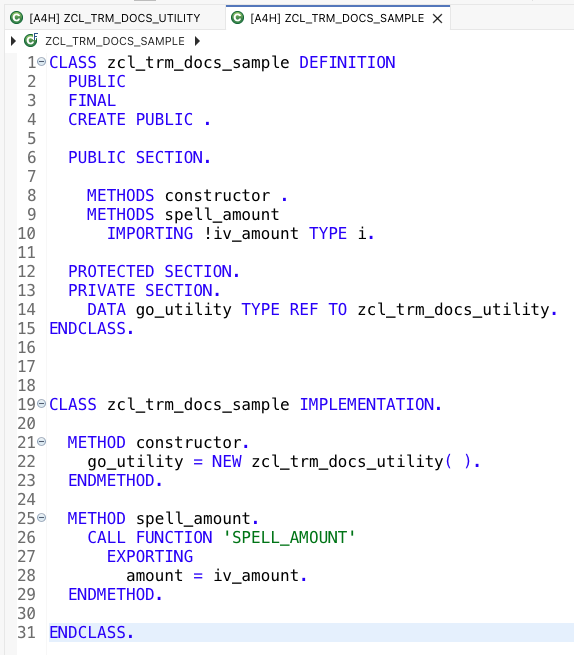
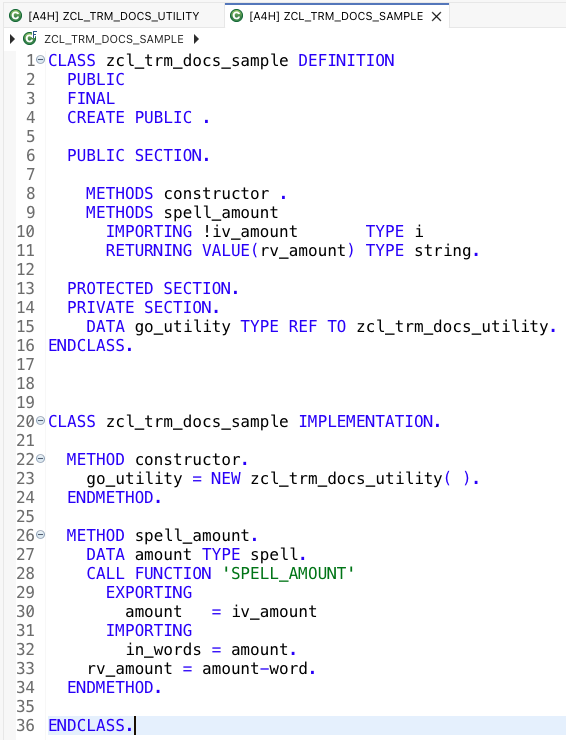
package with dependencies docs

Changed region(s): [[0.0, 0.0, 1.0, 1.0], [0.3905, 0.0, 0.7809, 0.0305], [0.811, 0.7023, 0.841, 0.7328]]

diff --git a/examples/2_package_with_dependencies.md b/examples/2_package_with_dependencies.md
@@ -1,108 +1,168 @@
 # Package with dependencies
 
-In the last post, we published and installed a simple package.
-If you remember, we have an empty method without implementation, so now we're not only implementing it but also create a dependency with another TRM package.
+In the last post, we published and installed a simple package.  
+If you remember, we had an empty method without implementation. Now we’re not only going to implement it, but also create a dependency with another TRM package.
 
 ## Coding
 
-I'll now create a new SAP package and, inside, create an utility class.
+I’ll start by creating a new SAP package and, inside it, a utility class.
 
 <div style="display:flex; gap:12px; flex-wrap:wrap">
   <img src="/_media/2_1_package_with_dependencies.png" alt="Creating a package" style="flex:1 1 300px; max-width:100%; height:auto">
   <img src="/_media/2_2_package_with_dependencies.png" alt="Creating a class" style="flex:1 1 300px; max-width:100%; height:auto">
 </div>
 
-Just like last time, let's check what's currently in my workspace:
+Just like last time, let’s check what’s currently in my workspace:
 
 <div style="display:flex; justify-content:center;">
   <img src="/_media/2_3_package_with_dependencies.png" alt="Current workspace viewed in Eclipse" style="max-width:100%; height:auto; border-radius:8px;">
 </div>
 
-And here's the utility class implemented:
+And here’s the implemented utility class:
 
 <div style="display:flex; justify-content:center;">
-  <img src="/_media/2_4_package_with_dependencies.png" alt="Current workspace viewed in Eclipse" style="max-width:100%; height:auto; border-radius:8px;">
+  <img src="/_media/2_4_package_with_dependencies.png" alt="Utility class implemented" style="max-width:100%; height:auto; border-radius:8px;">
 </div>
 
-I'll now go back to the `ZCL_TRM_DOCS_SAMPLE` class (which is in SAP package `ZTRM_DOCS_SAMPLE`, TRM package `@trmsamples/doc-demo`) and make use of that utility class
+I’ll now go back to the `ZCL_TRM_DOCS_SAMPLE` class (in SAP package `ZTRM_DOCS_SAMPLE`, TRM package `@trmsamples/doc-demo`) and make use of that utility class.
 
 <div style="display:flex; justify-content:center;">
-  <img src="/_media/2_5_package_with_dependencies.png" alt="Utility class" style="max-width:100%; height:auto; border-radius:8px;">
+  <img src="/_media/2_5_package_with_dependencies.png" alt="Utility class usage" style="max-width:100%; height:auto; border-radius:8px;">
 </div>
 
-> Even a simple use of another class (in this case creating an instance) is considered a dependency with another object
+> Even a simple use of another class (for example, creating an instance) is considered a dependency on that object.
 
-## Publish with dependency
+## Publish with a dependency
 
-I'll now try to publish a new release of package `@trmsamples/doc-demo`, as an change to class `ZCL_TRM_DOCS_SAMPLE` was performed.
+I’ll now try to publish a new release of package `@trmsamples/doc-demo`, since we changed the class `ZCL_TRM_DOCS_SAMPLE`.
 
 <div style="display:flex; justify-content:center;">
   <img src="/_media/2_6_package_with_dependencies.png" alt="Failed publish" style="max-width:100%; height:auto; border-radius:8px;">
 </div>
 
-...problems! As you can see I got an error message: clearly I messed up!
+…problems! As you can see, I got an error message: clearly I messed up!
 
-Like explained earlier, even a simple reference to another class is a dependency with it, and if `ZCL_TRM_DOCS_UTILITY` was within SAP package `ZTRM_DOCS_SAMPLE` I wouldn't have any problem, but as the CLI states, it's in package `ZTRM_DOCS_UTILITY`.
+As explained earlier, even a simple reference to another class creates a dependency.  
+If `ZCL_TRM_DOCS_UTILITY` were in the SAP package `ZTRM_DOCS_SAMPLE`, there would be no issue. But as the CLI says, it’s in package `ZTRM_DOCS_UTILITY`.
 
-Imagine what would happen if I were to bypass that error: version `1.0.1` of `@trmsamples/doc-demo` would be released and next end user to install it would have a syntax error in class `ZCL_TRM_DOCS_SAMPLE` because `ZCL_TRM_DOCS_UTILITY` (and its package `ZTRM_DOCS_UTILITY`) doesn't exist.
+Imagine what would happen if I ignored that error: version `1.0.1` of `@trmsamples/doc-demo` would still be released, but the next user who installs it would get a syntax error in `ZCL_TRM_DOCS_SAMPLE`, because `ZCL_TRM_DOCS_UTILITY` (and its package `ZTRM_DOCS_UTILITY`) doesn’t exist in their system.
 
-To solve this, we first have to publish `ZTRM_DOCS_UTILITY` (as `@trmsamples/doc-utility`) so that it becomes a TRM package, then retry the publish of `@trmsamples/doc-demo`.
+To fix this, we first need to publish `ZTRM_DOCS_UTILITY` (as `@trmsamples/doc-utility`) so that it becomes a TRM package. After that, we can try publishing `@trmsamples/doc-demo` again.
 
 <div style="display:flex; justify-content:center;">
   <img src="/_media/2_7_package_with_dependencies.png" alt="Utility publish" style="max-width:100%; height:auto; border-radius:8px;">
 </div>
 
-With `@trmsamples/doc-utility` published, let's now retry the publish of `@trmsamples/doc-demo`.
+With `@trmsamples/doc-utility` published, let’s retry publishing `@trmsamples/doc-demo`.
 
 <div style="display:flex; justify-content:center;">
   <img src="/_media/2_8_package_with_dependencies.png" alt="Successful publish" style="max-width:100%; height:auto; border-radius:8px;">
 </div>
 
-There we go! The new release is published. Few things to notice:
-- TRM automatically proposed version 1.0.1 -> I didn't specify a version during publish, so patch of the latest version at the time (1.0.0) was incremented by one, generating 1.0.1
-- The dependency with another TRM package is picked up -> We'll confirm this in the registry website, but it clearly says "1 TRM package dependency"
-- Some values were proposed as defaults, like the SAP package name or the manifest values
+The new release is published. A few things to notice:
+
+- TRM automatically proposed version `1.0.1` ➡ I didn’t specify a version during publish, so the patch number of the latest version (`1.0.0`) was increased by one.
+- The dependency on another TRM package was detected ➡ We’ll confirm this on the registry website, but it already shows “**1 TRM package dependency**”.
+- Some values were proposed as defaults, like the SAP package name and some manifest fields.
 
 <div style="display:flex; justify-content:center;">
   <img src="/_media/2_9_package_with_dependencies.png" alt="Release on registry" style="max-width:100%; height:auto; border-radius:8px;">
 </div>
 
-Here's the release on the registry confirming there's a dependency with `@trmsamples/doc-utility`.
+Here’s the release on the registry, confirming the dependency with `@trmsamples/doc-utility`.
 
 ## Install with dependencies
 
-Let's start fresh again and install (or update) `@trmsamples/doc-demo` to the latest version (1.0.2), just like an end user would do.
+Let’s start fresh again and install (or update) `@trmsamples/doc-demo` to the latest version (`1.0.2`), just like an end user would do.
 
 <div style="display:flex; justify-content:center;">
   <img src="/_media/2_10_package_with_dependencies.png" alt="Confirm install dependency" style="max-width:100%; height:auto; border-radius:8px;">
 </div>
 
-As you can see the user is first prompted with a confirm on the install of the dependency `@trmsamples/doc-utility`.
-Behind the scenes, TRM looked for `@trmsamples/doc-demo` and found out it's not installed on the end user development system.
+As you can see, the user is first asked to **confirm the installation of the dependency** `@trmsamples/doc-utility`.  
+Behind the scenes, TRM checked `@trmsamples/doc-demo` and saw that it isn’t installed yet in the development system.
 
 <div style="display:flex; justify-content:center;">
   <img src="/_media/2_11_package_with_dependencies.png" alt="Install of dependency and package" style="max-width:100%; height:auto; border-radius:8px;">
 </div>
 
-After confirm, the install of both packages continued as normal.
+After confirming, the installation of **both packages** continues normally.
 
 <div style="display:flex; justify-content:center;">
   <img src="/_media/2_12_package_with_dependencies.png" alt="List command" style="max-width:100%; height:auto; border-radius:8px;">
 </div>
 
-A list command also confirms both packages are installed.
+A `trm list` command confirms that both packages are installed.
 
 ## Publish with SAP entries
 
-On every publish, TRM automatically looks for dependencies with custom packages (and TRM packages) and SAP standard objects.
-As such, the SAP standard objects used by a TRM package basically become requirements of the end user development system in order to install the TRM package without any syntax error.
-Even a simple use of a standard data element, for example, is a dependency (listed in TRM SAP entries).
+On every publish, TRM **automatically** looks for dependencies with custom packages (and TRM packages) as well as SAP standard objects.  
+Because of this, the SAP standard objects used by a TRM package become **requirements** for the end user’s development system, so they can install the package without syntax errors.
 
-To clear things even more, let's publish a new version of `@trmsamples/doc-demo`, this time we're going to use a standard SAP function module call to see what TRM will list in its SAP entries.
+Even a simple use of a standard data element is a dependency (it will be listed in TRM’s SAP entries).
+
+To make this clearer, let’s publish a new version of `@trmsamples/doc-demo`. This time we’ll use a standard SAP function module call and see what TRM adds to the SAP entries.
 
 <div style="display:flex; justify-content:center;">
-  <img src="/_media/2_13_package_with_dependencies.png" alt="List command" style="max-width:100%; height:auto; border-radius:8px;">
+  <img src="/_media/2_13_package_with_dependencies.png" alt="Code using SPELL_AMOUNT" style="max-width:100%; height:auto; border-radius:8px;">
 </div>
 
-As you can see, I've added a new method which uses the standard SAP function module `SPELL_AMOUNT`.
-Let's publish this new release of `@trmsamples/doc-demo`.
+As you can see, I’ve added a new method that uses the standard SAP function module `SPELL_AMOUNT`.  
+Let’s publish this new release of `@trmsamples/doc-demo`.
+
+<div style="display:flex; justify-content:center;">
+  <img src="/_media/2_14_package_with_dependencies.png" alt="Publish with SAP entries" style="max-width:100%; height:auto; border-radius:8px;">
+</div>
+
+As expected, it shows a dependency on one TRM package (`@trmsamples/doc-utility`), but we can also see that it found **dependencies with SAP objects**.
+
+Now let’s go to the registry website, download the release, unpack it, and look at the contents of `sap_entries.json`.
+
+<div style="display:flex; justify-content:center;">
+  <img src="/_media/2_15_package_with_dependencies.png" alt="sap_entries.json file" style="max-width:100%; height:auto; border-radius:8px;">
+</div>
+
+It lists both the function module we used and its function group.  
+If you want a preview of a package’s dependencies, you can use:
+
+```bash
+trm find-dependencies <sap package name> --sap-entries
+```
+
+> The `--sap-entries` option is used to display SAP entries, in addition to dependencies on TRM packages and custom packages.
+
+<div style="display:flex; justify-content:center;">
+  <img src="/_media/2_16_package_with_dependencies.png" alt="Find dependencies command" style="max-width:100%; height:auto; border-radius:8px;">
+</div>
+
+## Install with SAP entries
+
+Now let’s pretend I’m the end user again and I want to install `@trmsamples/doc-demo` version `1.0.2` (the one that uses the standard FM `SPELL_AMOUNT`).
+
+<div style="display:flex; justify-content:center;">
+  <img src="/_media/2_17_package_with_dependencies.png" alt="Install with SAP entries silently checked" style="max-width:100%; height:auto; border-radius:8px;">
+</div>
+
+SAP entries are **checked silently**, and then we’re prompted to install the TRM dependencies of the package.
+
+<div style="display:flex; justify-content:center;">
+  <img src="/_media/2_18_package_with_dependencies.png" alt="Deleting the required function module" style="max-width:100%; height:auto; border-radius:8px;">
+</div>
+
+For testing purposes, let’s try deleting the FM `SPELL_AMOUNT` from my development system and see how TRM reacts when installing `@trmsamples/doc-demo` version `1.0.2`.
+
+> I'm doing this on A4h (ABAP Developer Trial), don't try this at home...
+
+<div style="display:flex; justify-content:center;">
+  <img src="/_media/2_19_package_with_dependencies.png" alt="Install with missing SAP entries" style="max-width:100%; height:auto; border-radius:8px;">
+</div>
+
+Of course, in a real-life scenario, it’s very unlikely that users delete standard SAP objects.  
+However, this mechanism of checking standard object dependencies is especially useful in more complex cases, such as:
+
+- missing SAP Notes that should be implemented  
+- specific SAP releases required by the package
+
+Speaking of dependencies, we can now take it one step further and see what a **lockfile** is.
+
+➡ Next: [Install with a lockfile](/examples/3_install_with_a_lockfile.md)
